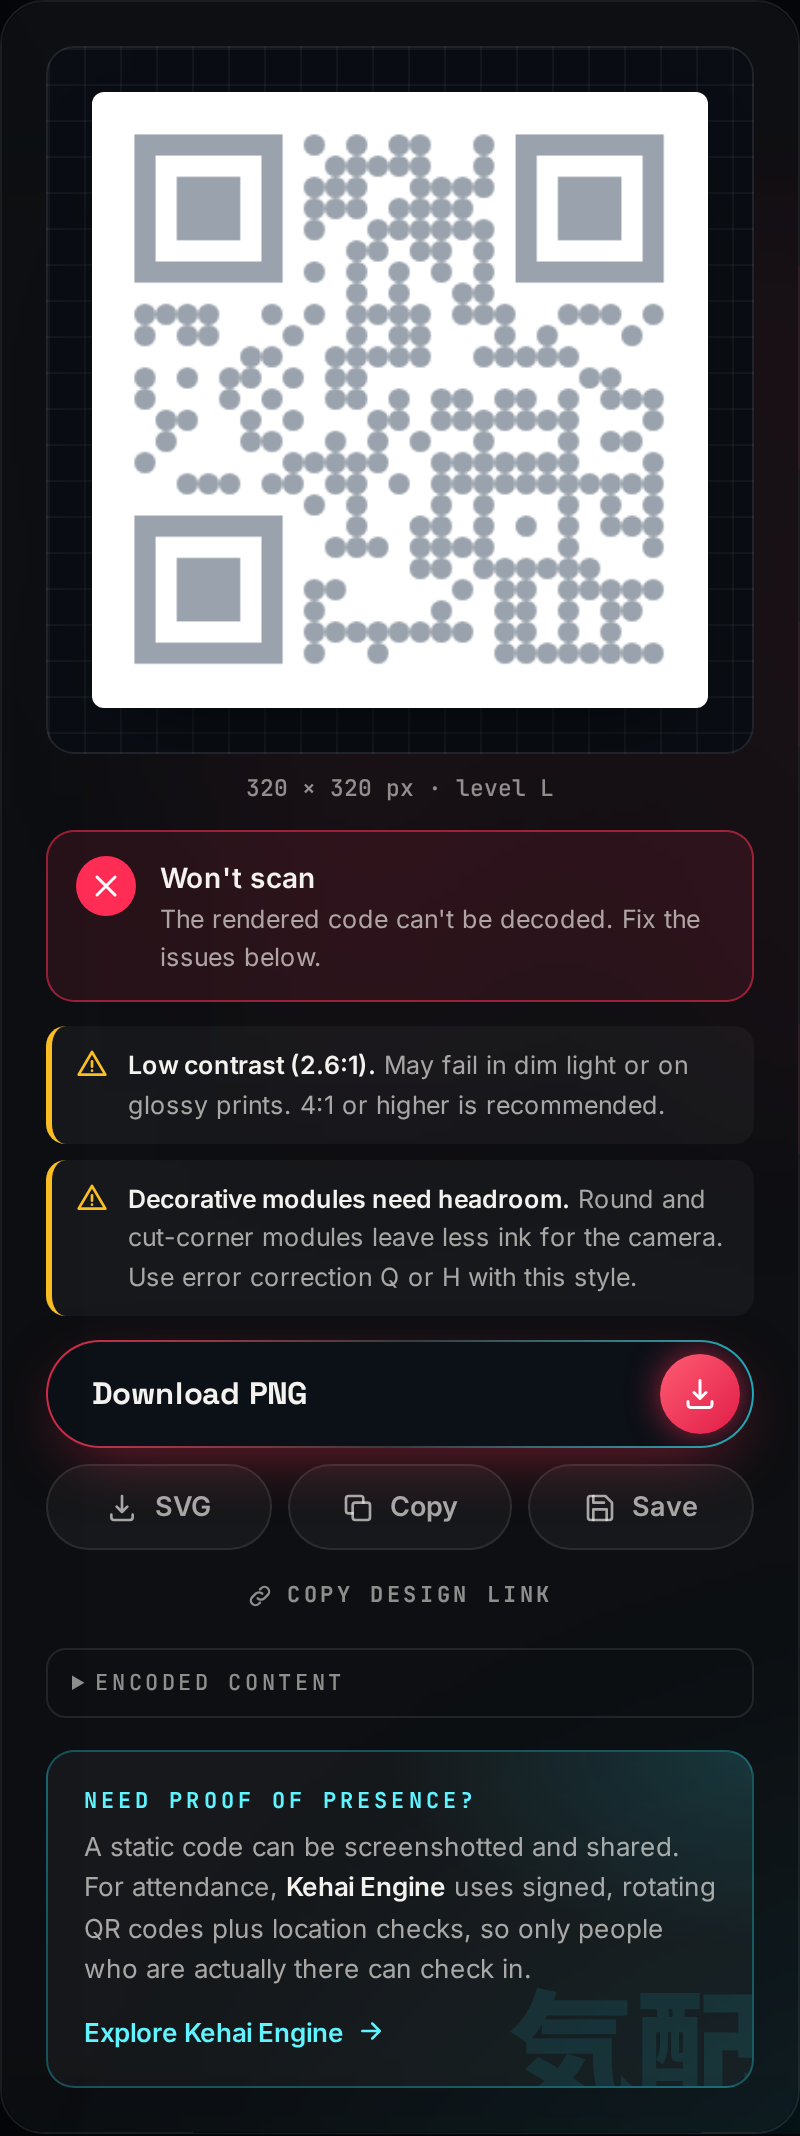
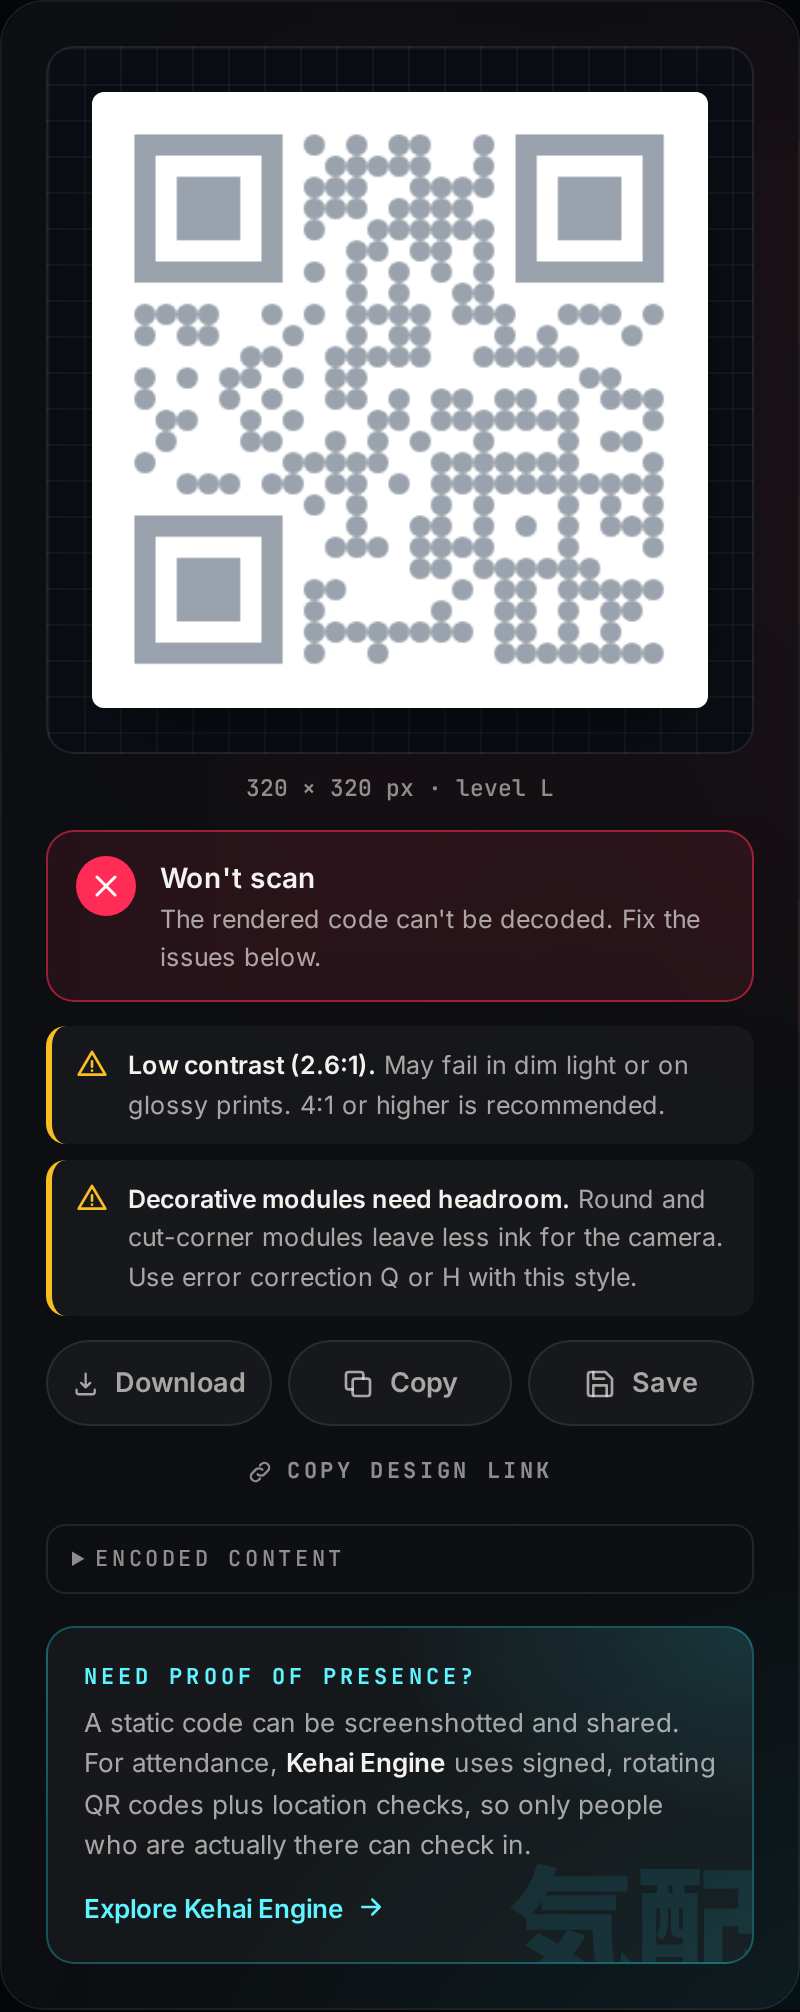
Second full review: refresh README screenshots and stale doc facts
- docs/screenshots regenerated: they predated the Download grid button
  (blank-screenshot guard passes)
- README: badge table gains "Scans in modern apps only"; first-load size
  updated to ~103 kB gzipped (was ~91 kB before later features)

Changed region(s): [[0.0312, 0.0616, 0.9688, 0.9553]]

diff --git a/README.md b/README.md
@@ -200,6 +200,7 @@ Decoding first runs with normal polarity (dark code on light), which every scann
 |---|---|
 | ✅ **Scan verified** | Decodes to exactly your content and no readability rule is triggered |
 | ⚠ **Scans, with caveats** | Decodes correctly, but the design breaks a rule of thumb for real cameras |
+| ⚠ **Scans in modern apps only** | Decodes only with the colours flipped (a light code on a dark background): Google Lens and most current phone cameras read it, some older scanner apps don't |
 | ❌ **Won't scan** / **Decodes to the wrong content** | The rendered image doesn't decode, or decodes to something else |
 
 ### 1b. Camera stress test
@@ -284,7 +285,7 @@ e2e/                        Playwright: behaviour, responsive layout, README scr
 **Data flow:** `fields → validate() → encode() → payload`, then `payload + design` feeds three things: the **renderer** (preview and export), **analyze()** (warnings) and **verifyScan()** (badge).
 There is one source of truth for the design, so the preview, the downloaded PNG and the SVG can't drift apart.
 
-**Bundle splitting.** The first load needs React, the renderer and the app (~91 kB gzipped). The jsQR decoder (~48 kB gzipped) is only needed for the scan badge, so it's a separate chunk fetched in parallel with the first render (`useScanCheck`). React and the renderer are also separate chunks, so a redeploy of app code doesn't re-download them. Before this, everything was one 141 kB gzipped file.
+**Bundle splitting.** The first load needs React, the renderer and the app (~103 kB gzipped). The jsQR decoder (~48 kB gzipped) is only needed for the scan badge, so it's a separate chunk fetched in parallel with the first render (`useScanCheck`). React and the renderer are also separate chunks, so a redeploy of app code doesn't re-download them. When this split was introduced, it cut the first load from 141 kB to 91 kB gzipped; features added since (Japanese, the colour picker, design links, the stress test and more) bring it to ~103 kB today, with the decoder still kept out of it.
 
 **Smooth scrolling without losing the frosted glass (measured).** Real-phone testing showed small stutters while scrolling. The cause was `backdrop-filter: blur()` on the four large panels: the background is `position: fixed`, so it moves relative to the panels, and the browser re-blurred everything behind every panel on every frame. Shrinking the blur or promoting layers didn't help enough (best case ~49 fps), and removing the effect wasn't an option, so the blur is now **baked once**:
 
